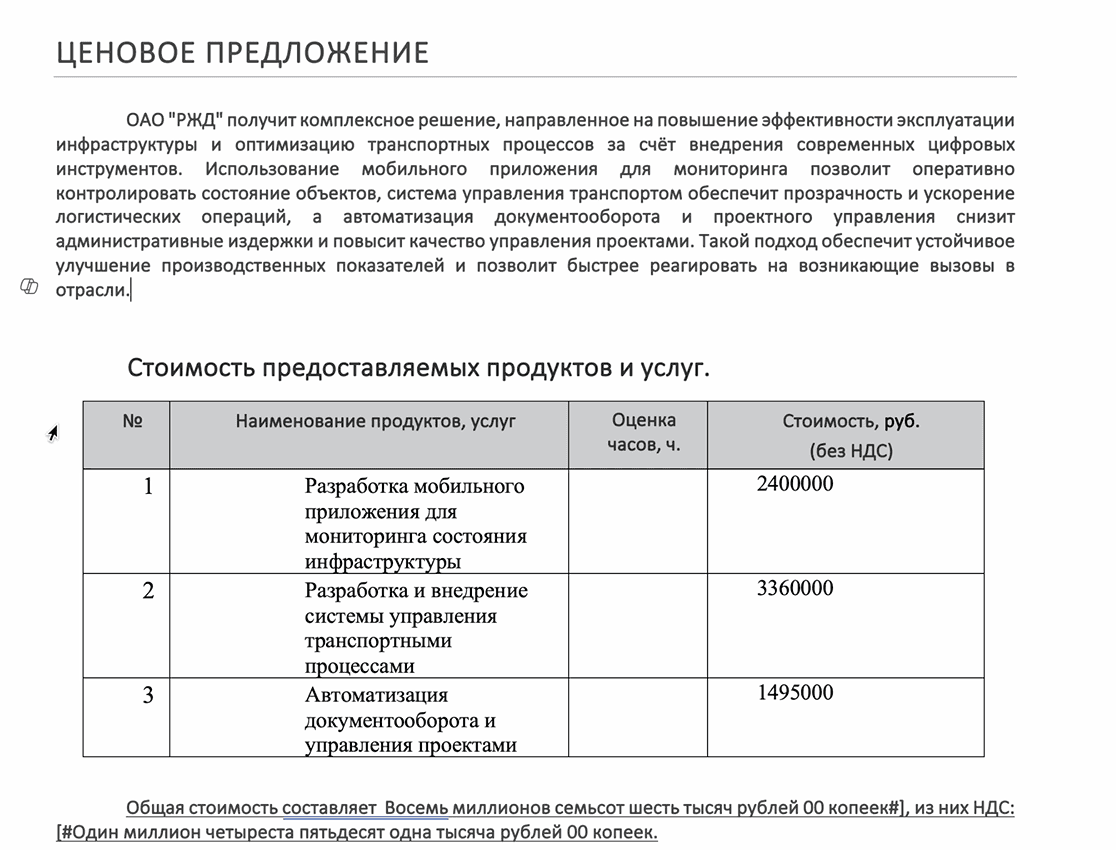
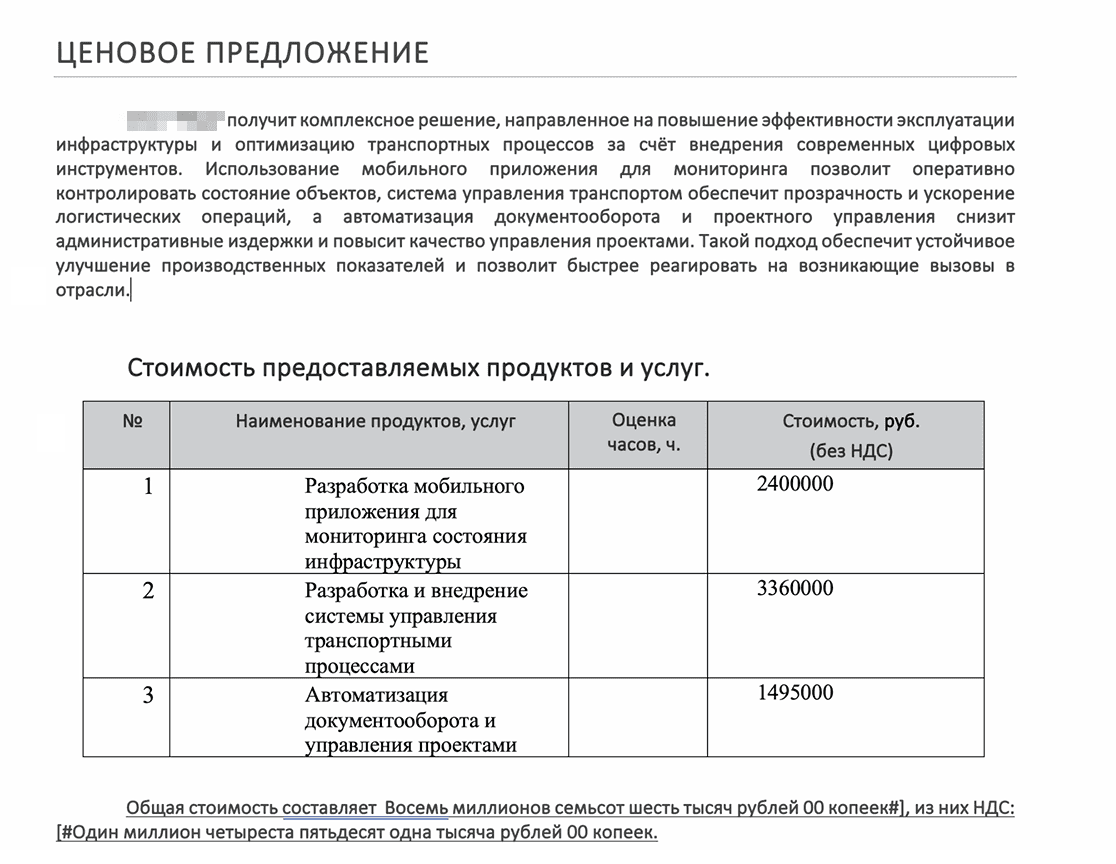
ECOSUI-3470, ECOSENT-3320
https://jira.citeck.ru/browse/ECOSUI-3470	New graphic type
https://jira.citeck.ru/browse/ECOSENT-3320	Total amount on kanban board

diff --git a/docs/settings_kb/interface/widgets.rst b/docs/settings_kb/interface/widgets.rst
@@ -1314,13 +1314,13 @@ Cравнение версий процесса - выберите версии 
 Графики конфигурируемые - пользователи могут настраивать оси, масштабирование и т.д. 
 
  .. image:: _static/widgets/chart_2.png
-       :width: 500
+       :width: 600
        :align: center 
 
 По нажатию на пункт легенды данные пункта легенды убираются из представления графика:
 
  .. image:: _static/widgets/chart_3.png
-       :width: 500
+       :width: 600
        :align: center 
 
 Общая конфигурация
@@ -1329,7 +1329,7 @@ Cравнение версий процесса - выберите версии 
 Для всех типов графиков:
 
  .. image:: _static/widgets/chart_4.png
-       :width: 500
+       :width: 600
        :align: center 
 
 .. list-table:: 
@@ -1373,13 +1373,13 @@ Cравнение версий процесса - выберите версии 
 Столбчатый 
 """""""""""
  .. image:: _static/widgets/chart_8.png
-       :width: 500
+       :width: 600
        :align: center 
 
 **Столбчатый график** — диаграмма, представленная прямоугольными зонами (столбцами), высоты или длины которых пропорциональны величинам, которые они отображают. 
 
  .. image:: _static/widgets/chart_5.png
-       :width: 500
+       :width: 600
        :align: center 
 
 .. list-table:: 
@@ -1404,27 +1404,27 @@ Cравнение версий процесса - выберите версии 
         - |
 
             .. image:: _static/widgets/chart_6.png
-                  :width: 500
+                  :width: 600
                   :align: center
 
       * - **4:**
         - |
 
             .. image:: _static/widgets/chart_7.png
-                  :width: 500
+                  :width: 600
                   :align: center
 
 Линейный
 """""""""""
 
  .. image:: _static/widgets/chart_10.png
-       :width: 500
+       :width: 600
        :align: center 
 
 **Линейный график** позволяет размещать данные в виде точек на линии. Используется для того, чтобы отразить изменение показателей с течением времени, или же для сравнения двух наборов данных. 
 
  .. image:: _static/widgets/chart_9.png
-       :width: 500
+       :width: 600
        :align: center 
 
 .. list-table:: 
@@ -1463,6 +1463,33 @@ Cравнение версий процесса - выберите версии 
       * - **Радиус середины**
         - Радиус центрального круга, в процентах от радиуса основного. По умолчанию 50 %.
 
+
+Воронка
+"""""""""""
+
+ .. image:: _static/widgets/chart_13.png
+       :width: 300
+       :align: center 
+
+**Воронка** используется для визуализации последовательных этапов процесса, где количество элементов уменьшается на каждом шаге.
+
+ .. image:: _static/widgets/chart_11.png
+       :width: 600
+       :align: center 
+
+При клике на любой из уровней графика открывается журнал со списком сущностей, относящихся к признаку группировки. 
+
+
+.. list-table:: 
+      :widths: 10 40
+      :name: Настройки воронки
+      :class: tight-table
+      :align: center
+
+      * - **Стадии воронки**
+        - Выбор стадий и цвета их отображения на воронке.
+
+
 .. |br| raw:: html
 
      <br>
@@ -1498,7 +1525,7 @@ Cравнение версий процесса - выберите версии 
 Виджет «Новости»
 -----------------------
 
-Виджет показывает анонсы последних 3 новостей из раздела **«Новости»**:
+Виджет показывает анонсы последних 3 новостей из журнала **«Новости»**:
 
  .. image:: _static/widgets/news_01.png
        :width: 500
@@ -1510,7 +1537,7 @@ Cравнение версий процесса - выберите версии 
        :width: 500
        :align: center 
 
-По клику на **Перейти** можно перейти в раздел **"Новости"**:
+По клику на **Перейти** можно перейти в журнал **"Новости"**:
 
  .. image:: _static/widgets/news_04.png
        :width: 700
@@ -1519,8 +1546,11 @@ Cравнение версий процесса - выберите версии 
 Для выбора источника новостей нажмите **шестеренку**, выберите тип данных и сохраните:
 
  .. image:: _static/widgets/news_03.png
-       :width: 500
+       :width: 600
        :align: center 
+
+См. как создать журнал :ref:`Новости<news>`:
+
 
 .. _widget_knowledge_base:
 

diff --git a/docs/settings_kb/interface/journals/kanban_board.rst b/docs/settings_kb/interface/journals/kanban_board.rst
@@ -161,7 +161,7 @@
           | Автор; Дата создания.
         - 4
       * - **Действия**
-        - | UI действия над сущностью на доске. Выбор осуществляется из списка всех уже созданных действий. 
+        - | Действия над сущностью на доске. Выбор осуществляется из списка всех уже созданных действий. 
           | Может быть выбрано несколько значений.
         - 
       * - **Колонки**
@@ -222,6 +222,29 @@
        :align: center
 
 На доске для колонок с включенной настройкой будут скрываться элементы с датой перехода в статус больше, чем указанная продолжительность.
+
+
+Общая сумма по каждой колонке
+~~~~~~~~~~~~~~~~~~~~~~~~~~~~~~~~
+
+На канбан-доске можно отображать общую сумму по каждой колонке, что актуально для договоров, сделок и в других случаях, связанных с использованием денежных сумм.
+
+ .. image:: _static/kanban/summ_01.png
+       :width: 700
+       :align: center
+
+В каждой колонке канбан-доски отображается общая сумма по всем карточкам в данной колонке. При перемещении карточки в другой статус общая сумма пересчитывается в обеих колонках: предыдущий статус и новый статус.
+
+Параметр задается для каждой колонки и учитывает только числовой атрибут для суммирования.
+
+ .. image:: _static/kanban/summ_02.png
+       :width: 600
+       :align: center
+
+Для каждого рабочего пространства суммы индивидуальны, и не являются общими для всех рабочих пространств одного типа.
+
+Если суммы в карточках внесены в разных валютах, то общая сумма содержит несколько записей с обозначением валют. Число записей при этом равно числу используемых валют в данной колонке в данном рабочем пространстве.
+
 
 Заполненная конфигурация
 -------------------------

diff --git a/docs/settings_kb/interface/journals/news.rst b/docs/settings_kb/interface/journals/news.rst
@@ -1,0 +1,34 @@
+Новости
+============
+
+.. _news:
+
+В каждое рабочее пространство можно добавить виджет :ref:`Новости<widget_news>`.
+
+Чтобы в виджете отображались анонсы, необходимо создать соответствующий журнал. Журнал создан на основе типа данных :ref:`Публикация<publication>`.
+
+Для добавления журнала **Новости** в меню рабочего пространства выберите специальный элемент **Список**:
+
+ .. image:: _static/news/news_01.png
+       :width: 500
+       :align: center
+
+Далее выберите журнал **Новости**:
+
+ .. image:: _static/news/news_02.png
+       :width: 500
+       :align: center
+
+Примените:
+
+ .. image:: _static/news/news_03.png
+       :width: 500
+       :align: center
+
+В журнале добавьте новости:
+
+ .. image:: _static/news/news_04.png
+       :width: 700
+       :align: center
+
+

diff --git a/docs/settings_kb/interface/journals/publication.rst b/docs/settings_kb/interface/journals/publication.rst
@@ -17,7 +17,7 @@
        :width: 600
        :align: center
 
-При создании публикации укажите **Заголовок**, напишите **Текст публикации**, добавьте изображение для превью. Для текста публикации доступен удобный :ref:`редатор контента<wysiwyg_editor>`.
+При создании публикации укажите **Заголовок**, напишите **Текст публикации**, добавьте изображение для превью. Для текста публикации доступен удобный :ref:`редактор контента<wysiwyg_editor>`.
 
  .. image:: _static/publication/publication_05.png
        :width: 600

diff --git a/docs/settings_kb/processes/ecos_bpmn/editor/components/ecos_bpmn_components_ai_task.rst b/docs/settings_kb/processes/ecos_bpmn/editor/components/ecos_bpmn_components_ai_task.rst
@@ -5,9 +5,9 @@ AI задача
 
 .. contents::
 
- .. image:: _static/ai_task/01.png
-       :width: 200
-       :align: center
+.. image:: _static/ai_task/01.png
+      :width: 200
+      :align: center
        
 
 Задача, которая отвечает за вызов AI по указанному промпту, и далее в зависимости от бизнес-требований можно делать все, что позволяет делать BPMN: отправлять задачи, уведомления, генерировать документы и так далее.

diff --git a/docs/settings_kb/interface/journals.rst b/docs/settings_kb/interface/journals.rst
@@ -20,6 +20,7 @@
     journals/kanban_board
     journals/document_library
     journals/publication
+    journals/news
     journals/wiki
 
 
